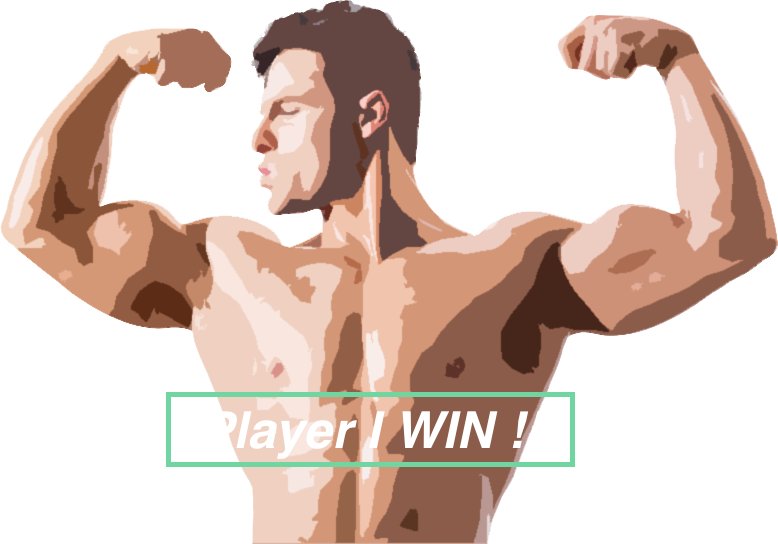
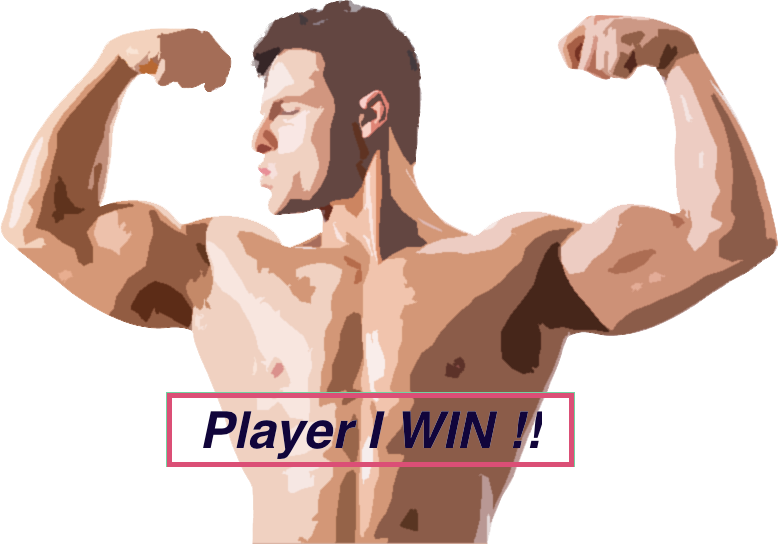
Change color Winner

Changed region(s): [[0.2159, 0.7188, 0.7404, 0.875]]

diff --git a/MuscleWar_Game/core/src/com/mygdx/game/GameScreen.java b/MuscleWar_Game/core/src/com/mygdx/game/GameScreen.java
@@ -44,7 +44,7 @@ public class GameScreen extends ScreenAdapter {
         
         batch = new SpriteBatch();
         world = new MuscleWorld(batch);
-        serial = new Serial("/dev/ttyUSB1");
+        serial = new Serial("/dev/ttyUSB0");
         powerBarI = new PowerBar(batch,barI);
         powerBarII = new PowerBar(batch, barII);
         
@@ -148,12 +148,14 @@ public class GameScreen extends ScreenAdapter {
             decreasePowerPerSec();
             whoWin();       
         } else {
-            powerBarI.draw(powerI);
-            powerBarII.draw(powerII);
+//            powerBarI.draw(powerI);
+//            powerBarII.draw(powerII);
             if (world.playerI.releasePower) {
                 batch.draw(playerI, WIDTH/2 - 320, 35);
+                powerBarI.drawWin();
             } else if (world.playerII.releasePower) {
             	batch.draw(playerII, WIDTH/2 - 320, 35);
+            	powerBarII.drawWin();
             }
         }
         batch.end();

diff --git a/MuscleWar_Game/core/src/com/mygdx/game/PowerBar.java b/MuscleWar_Game/core/src/com/mygdx/game/PowerBar.java
@@ -21,4 +21,8 @@ public class PowerBar {
 //        batch.draw(redBar, 20, 20);
 
     }
+    
+    public void drawWin(){
+    	batch.draw( bar, 0, 20, 1280, 30);
+    }
 }
